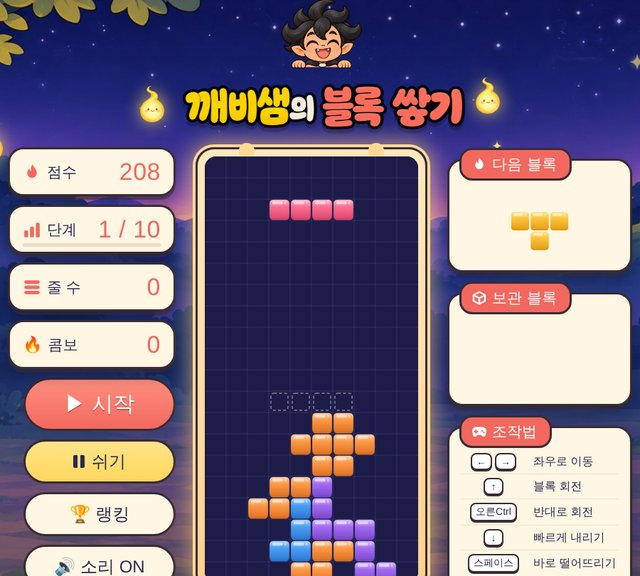
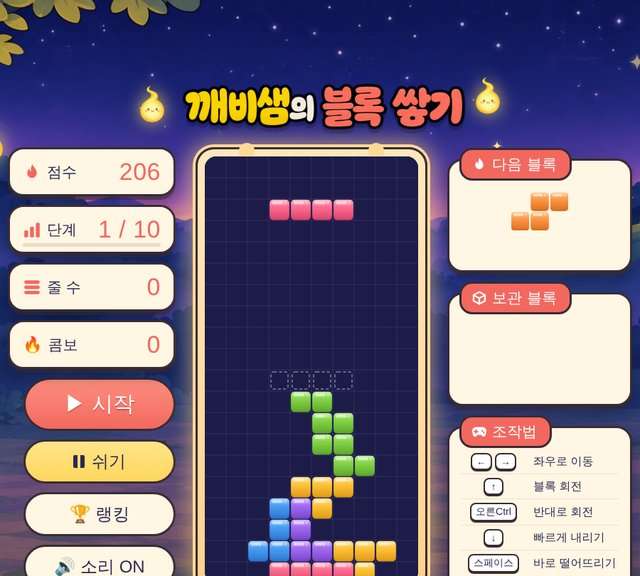
블록 쌓기: 제목 위 빼꼼 깨비샘 빼기 (#82)
* 홈 화면: 깨비샘 캐릭터와 새 사이트 이름(깨비샘과 쉬는 시간)

Claude-Session: https://claude.ai/code/session_01TJDp5XNDx63cZsB8aKiCUZ

* 홈 화면: 새 로고로 교체

Claude-Session: https://claude.ai/code/session_01TJDp5XNDx63cZsB8aKiCUZ

* 맞춤법 게임: 깨비샘 캐릭터와 새 로고 (깨비샘의 한글 맞춤법 대소동)

Claude-Session: https://claude.ai/code/session_01TJDp5XNDx63cZsB8aKiCUZ

* 영어 타자 연습: 깨비샘 캐릭터와 새 로고 (깨비샘의 영어 타자 연습)

Claude-Session: https://claude.ai/code/session_01TJDp5XNDx63cZsB8aKiCUZ

* 국기 맞히기: 깨비샘 캐릭터와 새 로고 (깨비샘의 국기 맞히기)

Claude-Session: https://claude.ai/code/session_01TJDp5XNDx63cZsB8aKiCUZ

* 블록 쌓기: 깨비샘 캐릭터와 새 로고 (깨비샘의 블록 쌓기)

Claude-Session: https://claude.ai/code/session_01TJDp5XNDx63cZsB8aKiCUZ

* 오목 대결: 깨비샘 캐릭터, 스티커, 새 로고 (깨비샘의 오목 대결)

Claude-Session: https://claude.ai/code/session_01TJDp5XNDx63cZsB8aKiCUZ

* 홈 화면: 로고 크게, 휴대폰 카드 썸네일을 원래 비율(10:9)로

Claude-Session: https://claude.ai/code/session_01TJDp5XNDx63cZsB8aKiCUZ

* 홈 화면: 인스타그램 계정 ggaebilog로 변경

Claude-Session: https://claude.ai/code/session_01TJDp5XNDx63cZsB8aKiCUZ

* 블록 쌓기: 제목 위 빼꼼 깨비샘 빼기

Claude-Session: https://claude.ai/code/session_01TJDp5XNDx63cZsB8aKiCUZ

---------

diff --git a/tetris/index.html b/tetris/index.html
@@ -406,7 +406,6 @@ body{font-family:'Jua',sans-serif;color:var(--ink);background:var(--night);min-h
 <img class="wisp" src="img/wisp.png" alt="" style="right:20%;top:58%;width:26px;animation-delay:-3s">
 <div class="wrap">
   <div class="logo">
-    <img class="peek" src="img/ggobi-peek.png" alt="">
     <img class="wisp-i" src="img/wisp.png" alt="">
     <h1 class="game-title"><img class="logo-img" src="img/logo.png" alt="깨비샘의 블록 쌓기"></h1>
     <img class="wisp-i r" src="img/wisp.png" alt="">

diff --git a/index.html b/index.html
@@ -157,7 +157,7 @@ body.adm-edit .adm-num{display:flex}
   <div class="grid">
     <a class="game" href="tetris/">
       <span class="adm-num"></span>
-      <img src="tetris/thumb.jpg?v=2" alt="깨비샘의 블록 쌓기 게임 화면">
+      <img src="tetris/thumb.jpg?v=3" alt="깨비샘의 블록 쌓기 게임 화면">
       <div class="title"><b>깨비샘의 블록 쌓기</b></div>
       <p>10단계까지 완주하고 랭킹 TOP 50에 도전!</p>
     </a>
